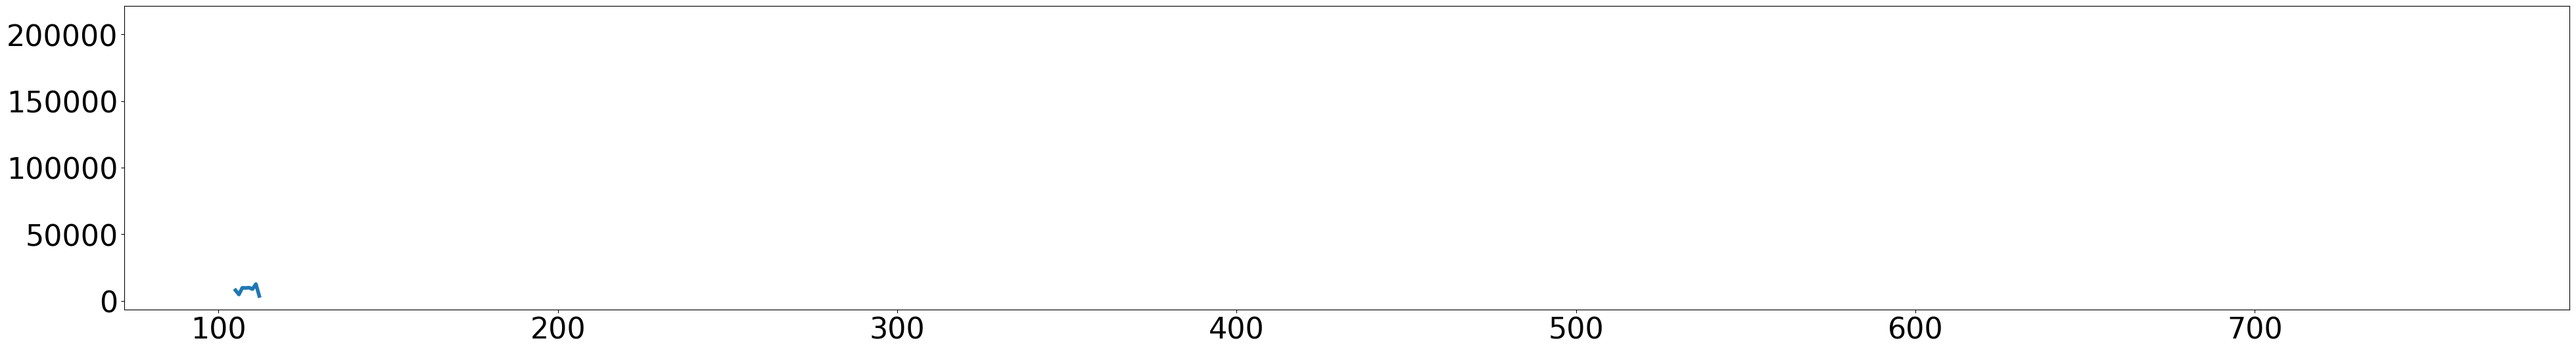
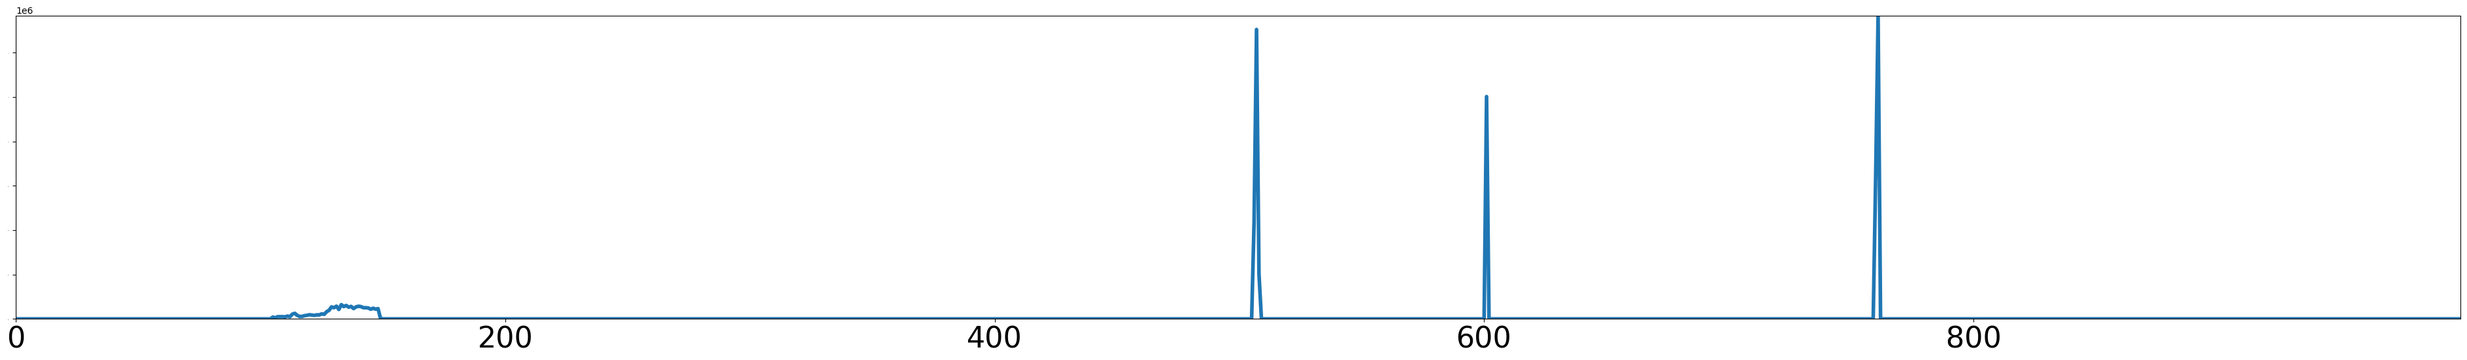
minor update

diff --git a/src/private/index.js b/src/private/index.js
@@ -15,7 +15,9 @@ import TableRow from '@mui/material/TableRow';
 import Paper from '@mui/material/Paper';
 import { styled } from '@mui/material/styles';
 import ProgressBar from 'react-bootstrap/ProgressBar';
-
+import Col from 'react-bootstrap/Col';
+import Form from 'react-bootstrap/Form';
+import Row from 'react-bootstrap/Row';
 
 const Weather = (props) => {
   const { data, isLoading, errorMessage } = useOpenWeather(props.weatherData);

diff --git a/src/plot.py b/src/plot.py
@@ -26,11 +26,12 @@ for i in range(interval):
         (i * interval, (i+1) * interval)
     )
     rows = res.fetchall()
-    # tx_counts[i] = 0 if rows[0][0] is None else rows[0][0]
-    tx_counts[i] = rows[0][0]
+    tx_counts[i] = 0 if rows[0][0] is None else rows[0][0]
+    #tx_counts[i] = rows[0][0]
 
 fig, ax = plt.subplots(figsize=(48, 6))
-
-ax.tick_params(axis='both', which='major', labelsize=32)
+ax.margins(0)
+ax.tick_params(axis='x', which='major', labelsize=32)
+ax.tick_params(axis='y', which='major', labelsize=0)
 ax.plot(tx_counts, linewidth=4)
 plt.savefig(os.path.join(app_dir, 'public/img/chart.png'), bbox_inches='tight')
